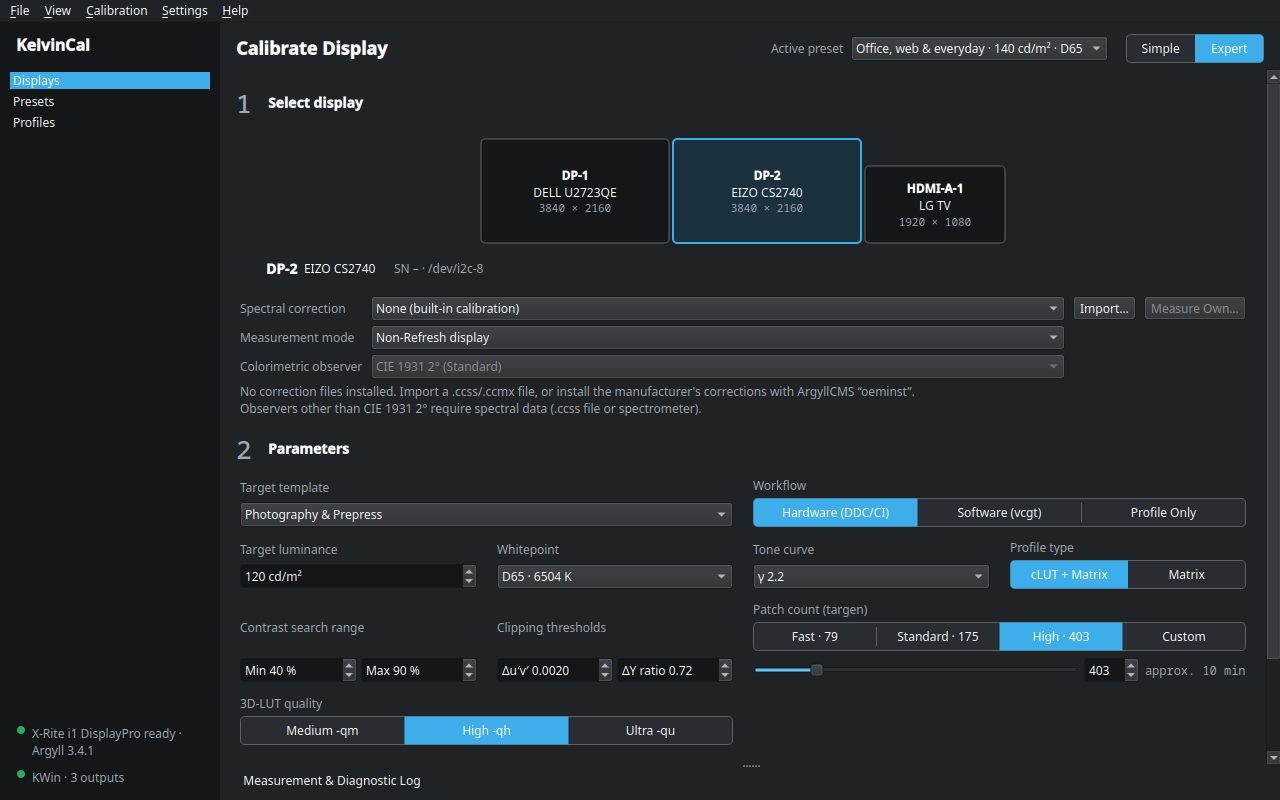
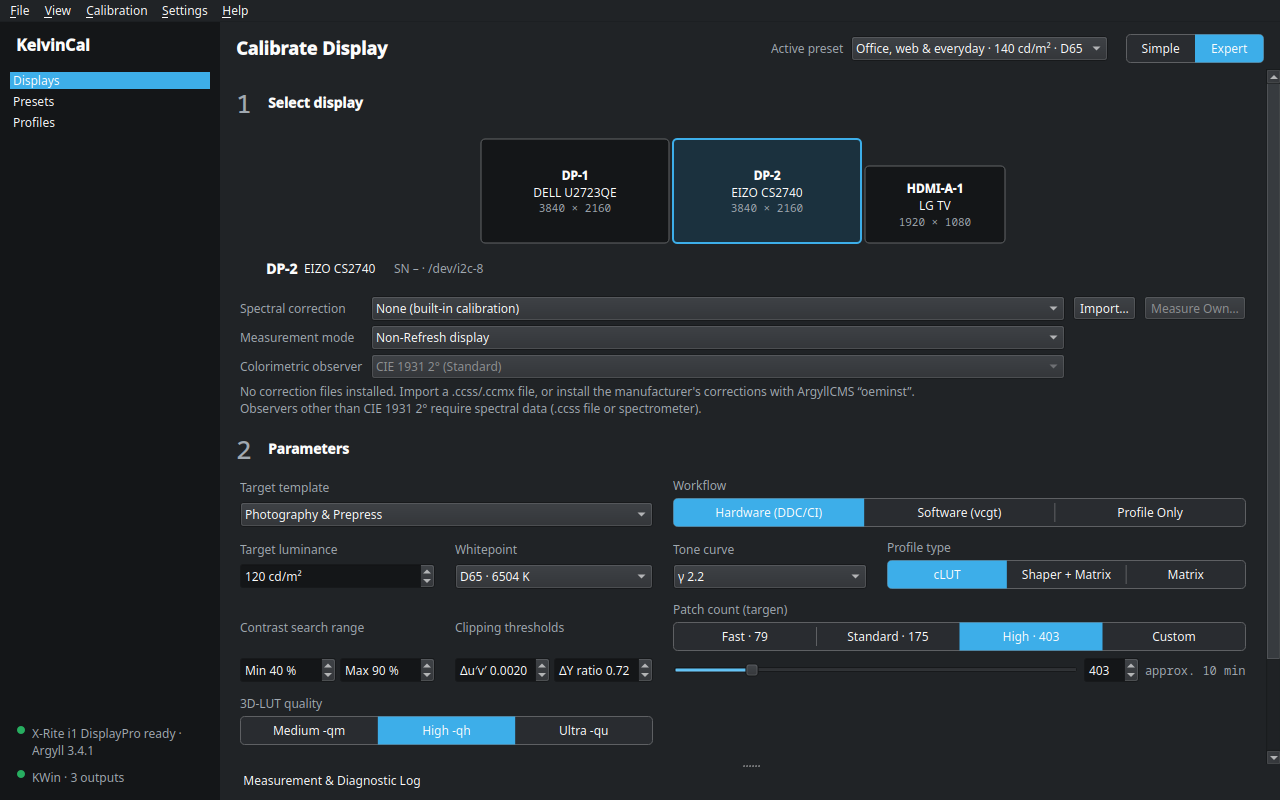
Release 0.2.0: fix Issue #8 (gamma 2.4 & sidecar persistence) and bump version

diff --git a/packages/kelvincal/gui/main_window.py b/packages/kelvincal/gui/main_window.py
@@ -38,7 +38,14 @@ from kelvincal.core.models import D65_X, D65_Y, DisplayInfo, Preset
 from kelvincal.core.paths import user_icc_dir
 from kelvincal.core import recovery
 from kelvincal.core.setup_check import Check, has_errors, run_checks
-from kelvincal.core.targets import TARGETS, WORKFLOW_DDC, WORKFLOW_PROFILE, WORKFLOW_SOFTWARE, CalibrationTarget
+from kelvincal.core.targets import (
+    TARGETS,
+    WORKFLOW_DDC,
+    WORKFLOW_PROFILE,
+    WORKFLOW_SOFTWARE,
+    CalibrationTarget,
+    target_by_key,
+)
 from kelvincal.ddc.contrast_optimizer import ContrastOptimizationConfig
 from kelvincal.ddc.ddc_client import DDCClient
 from kelvincal.gui.batch_dialog import BatchSetupDialog, BatchSummaryDialog
@@ -1172,6 +1179,8 @@ class KelvinCalMainWindow(QMainWindow):
                     observer=obs_key,
                     vcgt_active=bool(res.inspection and res.inspection.has_vcgt),
                     patch_count=res.inspection.total_measured_patches if res.inspection else None,
+                    gamma=target.gamma if target else (res.inspection.target_gamma if res.inspection else None),
+                    tone_curve=target.tone_curve if target else "",
                 )
             except OSError as exc:
                 self.log(str(exc))
@@ -1337,6 +1346,20 @@ class KelvinCalMainWindow(QMainWindow):
             QMessageBox.critical(self, translate("MainWindow", "Profile Inspector Error"), str(exc))
             return
         meta = read_profile_meta(icc_file)
+        saved_target = target_by_key(meta.target) if meta and meta.target else None
+        if saved_target is not None and meta is not None:
+            if meta.luminance is not None:
+                saved_target = saved_target.with_luminance(meta.luminance)
+            if meta.gamma is not None or meta.tone_curve:
+                saved_target = CalibrationTarget(
+                    saved_target.key,
+                    saved_target.title,
+                    saved_target.luminance,
+                    saved_target.cct,
+                    tone_curve=meta.tone_curve or saved_target.tone_curve,
+                    gamma=meta.gamma if meta.gamma is not None else saved_target.gamma,
+                    patch_count=meta.patch_count or saved_target.patch_count,
+                )
         dlg = InspectorDialog(
             inspection=inspection,
             connector=disp.connector if disp else None,
@@ -1345,7 +1368,8 @@ class KelvinCalMainWindow(QMainWindow):
             previous_icc_path=disp.icc_profile_path if disp else None,
             previous_source=disp.color_profile_source if disp else "sRGB",
             display=disp,
-            verify_starter=self._verify_starter(disp, None, icc_file) if disp else None,
+            target=saved_target,
+            verify_starter=self._verify_starter(disp, saved_target, icc_file) if disp else None,
             measurement_note=measurement_note(
                 meta.correction,
                 meta.white_offset,

diff --git a/packages/kelvincal/core/profile_meta.py b/packages/kelvincal/core/profile_meta.py
@@ -41,6 +41,8 @@ class ProfileMeta:
     observer: str = "1931_2"         # colorimetric observer (-Q), e.g. "1931_2", "2015_2"
     vcgt_active: bool = False        # True if profile contains non-linear 1D vcgt calibration curves
     patch_count: int | None = None
+    gamma: float | None = None       # target gamma (e.g. 2.2, 2.4)
+    tone_curve: str = ""             # target tone curve ("gamma", "srgb", "bt1886", "lstar")
 
 
 def write_profile_meta(icc_path: str | Path, ddc: DdcValues | None = None, connector: str = "", edid_hash: str = "",
@@ -49,7 +51,8 @@ def write_profile_meta(icc_path: str | Path, ddc: DdcValues | None = None, conne
                        white_offset: tuple[float, float] = (0.0, 0.0), correction: str | None = None,
                        display_type: str | None = None, display_type_label: str = "",
                        workflow: str = "ddc", observer: str | None = None,
-                       vcgt_active: bool = False, patch_count: int | None = None) -> Path:
+                       vcgt_active: bool = False, patch_count: int | None = None,
+                       gamma: float | None = None, tone_curve: str = "") -> Path:
     data = {
         "ddc": dict(zip(_KEYS, ddc)) if ddc is not None else None,
         "connector": connector,
@@ -66,6 +69,8 @@ def write_profile_meta(icc_path: str | Path, ddc: DdcValues | None = None, conne
         "observer": observer or "1931_2",
         "vcgt_active": bool(vcgt_active),
         "patch_count": patch_count,
+        "gamma": gamma,
+        "tone_curve": tone_curve or "",
         "created": datetime.now().isoformat(timespec="seconds"),
     }
     path = meta_path(icc_path)
@@ -111,6 +116,7 @@ def read_profile_meta(icc_path: str | Path) -> ProfileMeta | None:
         wp_xy = data.get("whitepoint_xy")
         offset = data.get("white_offset") or (0.0, 0.0)
         patches = data.get("patch_count")
+        gamma = data.get("gamma")
         return ProfileMeta(
             icc_path=Path(icc_path), ddc=ddc, connector=str(data.get("connector", "")),
             edid_hash=str(data.get("edid_hash", "")), target=str(data.get("target", "")),
@@ -125,6 +131,8 @@ def read_profile_meta(icc_path: str | Path) -> ProfileMeta | None:
             observer=str(data.get("observer") or "1931_2"),
             vcgt_active=bool(data.get("vcgt_active", False)),
             patch_count=int(patches) if patches is not None else None,
+            gamma=float(gamma) if gamma is not None else None,
+            tone_curve=str(data.get("tone_curve") or ""),
         )
     except (OSError, ValueError, AttributeError, TypeError):
         return None

diff --git a/tests/test_profile_inspector.py b/tests/test_profile_inspector.py
@@ -276,6 +276,20 @@ class ProfileMetaTest(unittest.TestCase):
             meta = read_profile_meta(icc)
             self.assertEqual((meta.whitepoint_xy, meta.white_offset, meta.correction), (None, (0.0, 0.0), None))
 
+    def test_sidecar_gamma_and_tone_curve_used_by_inspect_profile(self) -> None:
+        from kelvincal.core.profile_meta import read_profile_meta, write_profile_meta
+
+        with tempfile.TemporaryDirectory() as tmp:
+            icc = Path(tmp) / "KC_DP2_24.icc"
+            icc.write_bytes(_build_minimal_icc_bytes(_build_synthetic_ti3()))
+            write_profile_meta(icc, None, "DP-2", "abc", "video", 100.0, "D65",
+                               gamma=2.4, tone_curve="bt1886")
+            meta = read_profile_meta(icc)
+            assert meta is not None
+            self.assertEqual((meta.gamma, meta.tone_curve), (2.4, "bt1886"))
+            insp = inspect_profile(icc)
+            self.assertEqual(insp.target_gamma, 2.4)
+
 
 class LibraryInspectorDdcTest(unittest.TestCase):
     def test_library_profile_switches_to_its_hardware_and_back(self) -> None:

diff --git a/packages/kelvincal/argyll/profile_inspector.py b/packages/kelvincal/argyll/profile_inspector.py
@@ -735,10 +735,21 @@ def _extract_channel_ramps(
 def inspect_profile(
     profile_path: str | Path,
     ti3_path: str | Path | None = None,
-    target_gamma: float = 2.2,
+    target_gamma: float | None = None,
 ) -> ProfileInspection:
     """Inspects an `.icc` profile (and optional `.ti3` file) for curves, metrics, and kinks."""
     path = Path(profile_path)
+    if target_gamma is None:
+        from kelvincal.core.profile_meta import read_profile_meta
+        from kelvincal.core.targets import target_by_key
+
+        meta = read_profile_meta(path)
+        if meta is not None and meta.gamma is not None:
+            target_gamma = meta.gamma
+        elif meta is not None and meta.target and (t := target_by_key(meta.target)) is not None:
+            target_gamma = t.gamma
+        else:
+            target_gamma = 2.2
     data = path.read_bytes()
     tags = _parse_icc_tags(data)
 

diff --git a/packages/kelvincal/gui/pages/monitors_expert.py b/packages/kelvincal/gui/pages/monitors_expert.py
@@ -56,7 +56,13 @@ from kelvincal.gui.widgets import LogPanel, MessageBanner, SecondaryLabel, Secti
 PHASE_TEST, PHASE_1A, PHASE_1B, PHASE_1S, PHASE_23, PHASE_ALL = "test", "1a", "1b", "1s", "23", "all"
 
 WHITEPOINTS = ((6504, "D65 · 6504 K"), (5003, "D50 · 5003 K"), (5500, "D55 · 5500 K"), (5800, "5800 K"))
-TONE_CURVES = ((TONE_GAMMA, 2.2), (TONE_SRGB, 2.2), (TONE_BT1886, 2.4), (TONE_LSTAR, 2.2))
+TONE_CURVES = (
+    (TONE_GAMMA, 2.2),
+    (TONE_GAMMA, 2.4),
+    (TONE_SRGB, 2.2),
+    (TONE_BT1886, 2.4),
+    (TONE_LSTAR, 2.2),
+)
 QUALITIES = ("m", "h", "u")
 # Segmented-control order of the profile types; the codes are colprof -a values.
 PROFILE_TYPE_CODES = (PROFILE_TYPE_CLUT, PROFILE_TYPE_SHAPER, PROFILE_TYPE_MATRIX)
@@ -512,3 +518,4 @@ class MonitorsExpertPage(QWidget):
         if saved in PROFILE_TYPE_CODES:
             return PROFILE_TYPE_CODES.index(saved)
         return 0
+

diff --git a/packages/kelvincal/gui/controller.py b/packages/kelvincal/gui/controller.py
@@ -1022,6 +1022,8 @@ class CalibrationController:
                         vcgt_active=(workflow == WORKFLOW_SOFTWARE
                                      or bool(profiling.inspection and profiling.inspection.has_vcgt)),
                         patch_count=prof_cfg.patch_count,
+                        gamma=prof_cfg.gamma,
+                        tone_curve=prof_cfg.tone_curve,
                     )
                     self.observer.status(translate("Controller", "✓ Batch {index}/{total}: {label} → {file}").format(
                         index=index, total=len(items), label=item.label, file=res.profile_path.name))

diff --git a/packages/kelvincal/__init__.py b/packages/kelvincal/__init__.py
@@ -1,4 +1,4 @@
 """KelvinCal: display calibration with DDC/CI hardware adjustment, ArgyllCMS profiling and presets."""
 
-__version__ = "0.1.0"
+__version__ = "0.2.0"
 PROJECT_URL = "https://github.com/colorcube/kelvincal"

diff --git a/CHANGELOG.md b/CHANGELOG.md
@@ -2,7 +2,7 @@
 
 All notable changes to KelvinCal are listed here. Versions follow [Semantic Versioning](https://semver.org/).
 
-## Unreleased
+## 0.2.0 – 2026-11-17
 
 - **Three calibration workflows** in Simple Mode, Expert Mode and CLI (`--workflow ddc|software|profile`):
   - **Hardware DDC/CI + Profile (`ddc`):** hardware contrast (1a), RGB gain & luminance control loop (1b/1c) and ICC profile (2+3)
@@ -11,7 +11,10 @@ All notable changes to KelvinCal are listed here. Versions follow [Semantic Vers
 - **Interactive display adjustment (Phase 1s)** before software calibration: live white point and luminance measurement loop in the Wayland patch window with target bars for R/G/B balance (`%`), luminance (`cd/m²`), CCT and $\Delta u'v'$ so brightness and OSD controls can be adjusted manually before `dispcal` starts
 - **Patch count presets** in Simple Mode (Step 4) and CLI (`--patches fast|standard|high|<N>`): *Fast* (79), *Standard* (175), *High* (403) and *Custom* (50–2000) with target-based recommendation indicator and sensor-aware duration estimates (fast colorimeters vs. slower sensors)
 - **CIE 2015 2° colorimetric observer (`-Q 2015_2`)** in Expert Mode and CLI (`--observer 1931_2|2015_2`) for improved visual white point agreement on wide-gamut LED and OLED displays
-- **Extended profile metadata & inspector:** sidecar `.kelvincal.json`, profile inspector KPIs and verification reports now record and display `workflow`, `observer`, `vcgt_active` and `patch_count`
+- **Profile types & `colprof` fit check (PR #9 by `@patcarter883`):** fixed Matrix profile option (`-a m` instead of `-a M`), added **Shaper + Matrix (`-a s`)** for OLED and wide-gamut displays, and added a fit-quality warning when `colprof`'s average error exceeds 3.0 ΔE00
+- **Tone curve & $\gamma$ 2.4 handling (Issue #8):** added plain $\gamma$ 2.4 tone curve option in Expert Mode and stored target `gamma` and `tone_curve` in `.kelvincal.json` sidecars so saved 2.4 profiles keep their target reference in the inspector
+- **Sensor USB settle & retry (Issue #2):** USB settle delay and exponential backoff retry when opening `spotread` for outlier re-measurement after `dispread`
+- **Extended profile metadata & inspector:** sidecar `.kelvincal.json`, profile inspector KPIs and verification reports now record and display `workflow`, `observer`, `vcgt_active`, `patch_count`, `gamma` and `tone_curve`
 - **Standalone CLI command `kelvincal-cli software-calibrate`** to measure `.cal` 1D calibration curves independently
 
 ## 0.1.0 – 2026-11-01
